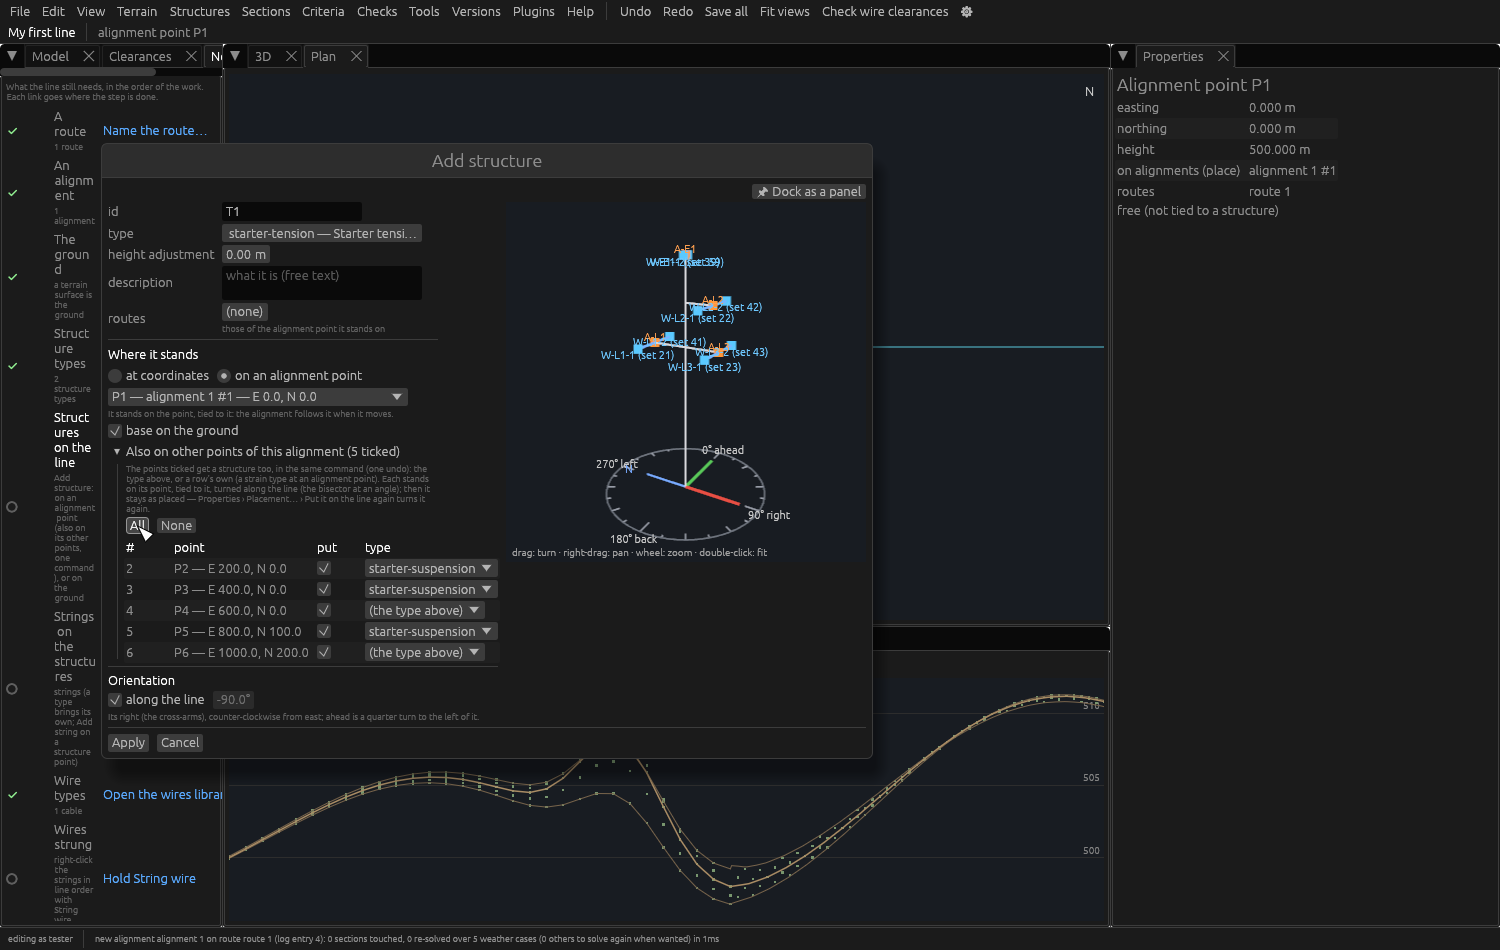
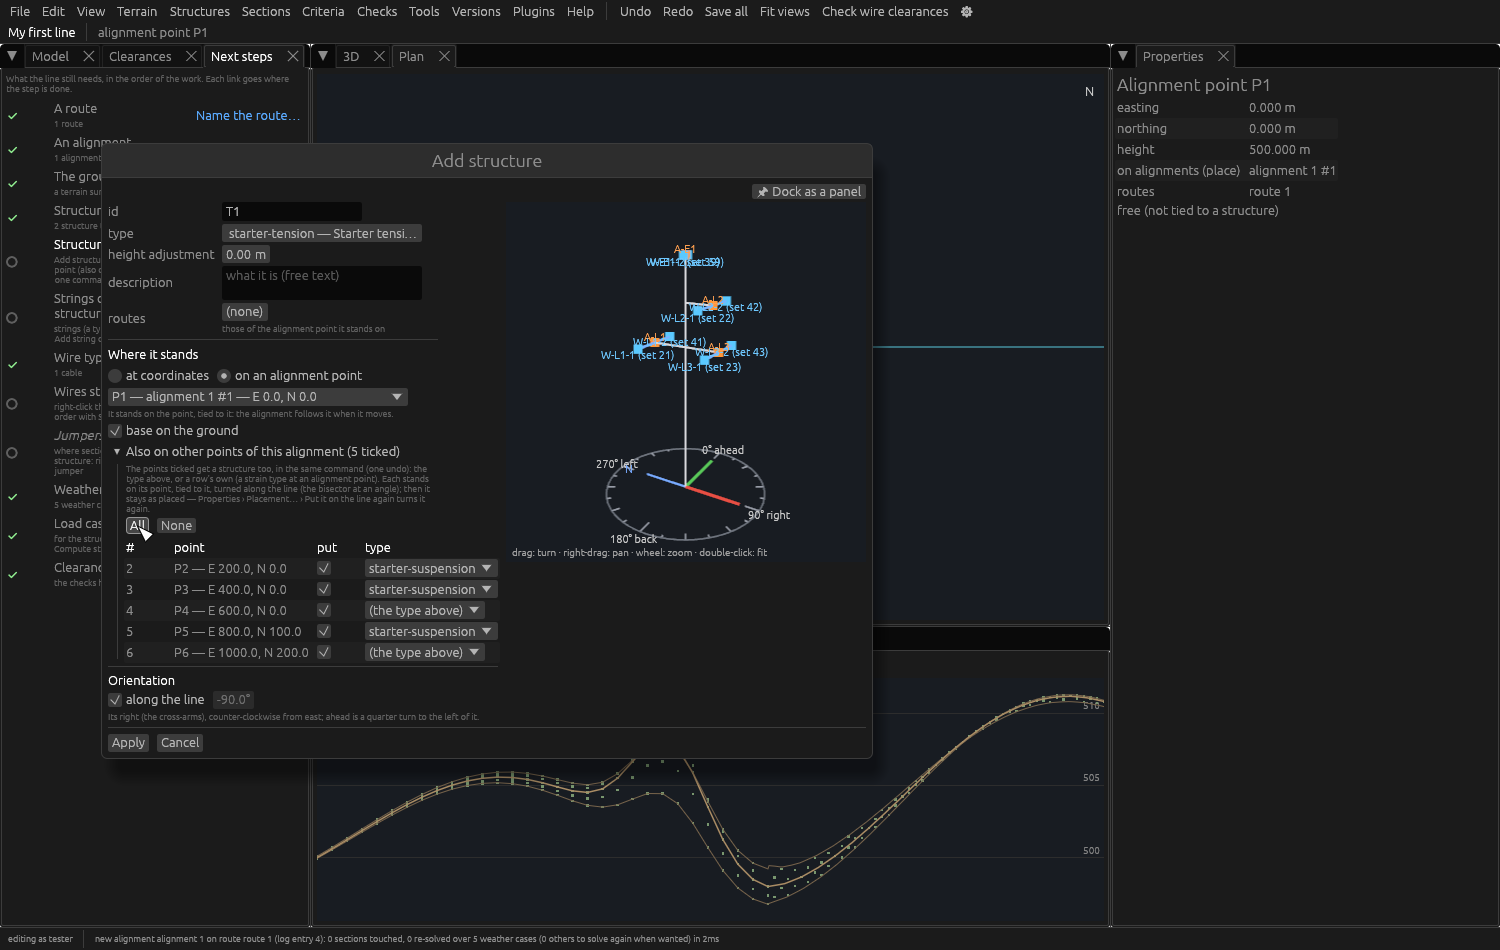
Next steps: the step titles a width of their own (45 % of the panel, 110–260 px) instead of breaking every few letters; the tutorial's screenshots made again (as USER=tester) with the wider column

diff --git a/crates/ohl-app/src/next_steps.rs b/crates/ohl-app/src/next_steps.rs
@@ -277,6 +277,9 @@ pub fn ui(ui: &mut egui::Ui, r: &mut Ready) {
     );
     ui.add_space(4.0);
     let mut chosen = None;
+    // The titles a width of their own: in a grid a cell takes the least
+    // it can, and they broke every few letters (2026-10-25).
+    let title_width = (ui.available_width() * 0.45).clamp(110.0, 260.0);
     egui::Grid::new("next-steps")
         .num_columns(3)
         .spacing([8.0, 6.0])
@@ -296,6 +299,7 @@ pub fn ui(ui: &mut egui::Ui, r: &mut Ready) {
                     title = title.italics();
                 }
                 ui.vertical(|ui| {
+                    ui.set_width(title_width);
                     ui.label(title);
                     ui.label(egui::RichText::new(&s.detail).small().weak());
                 });
